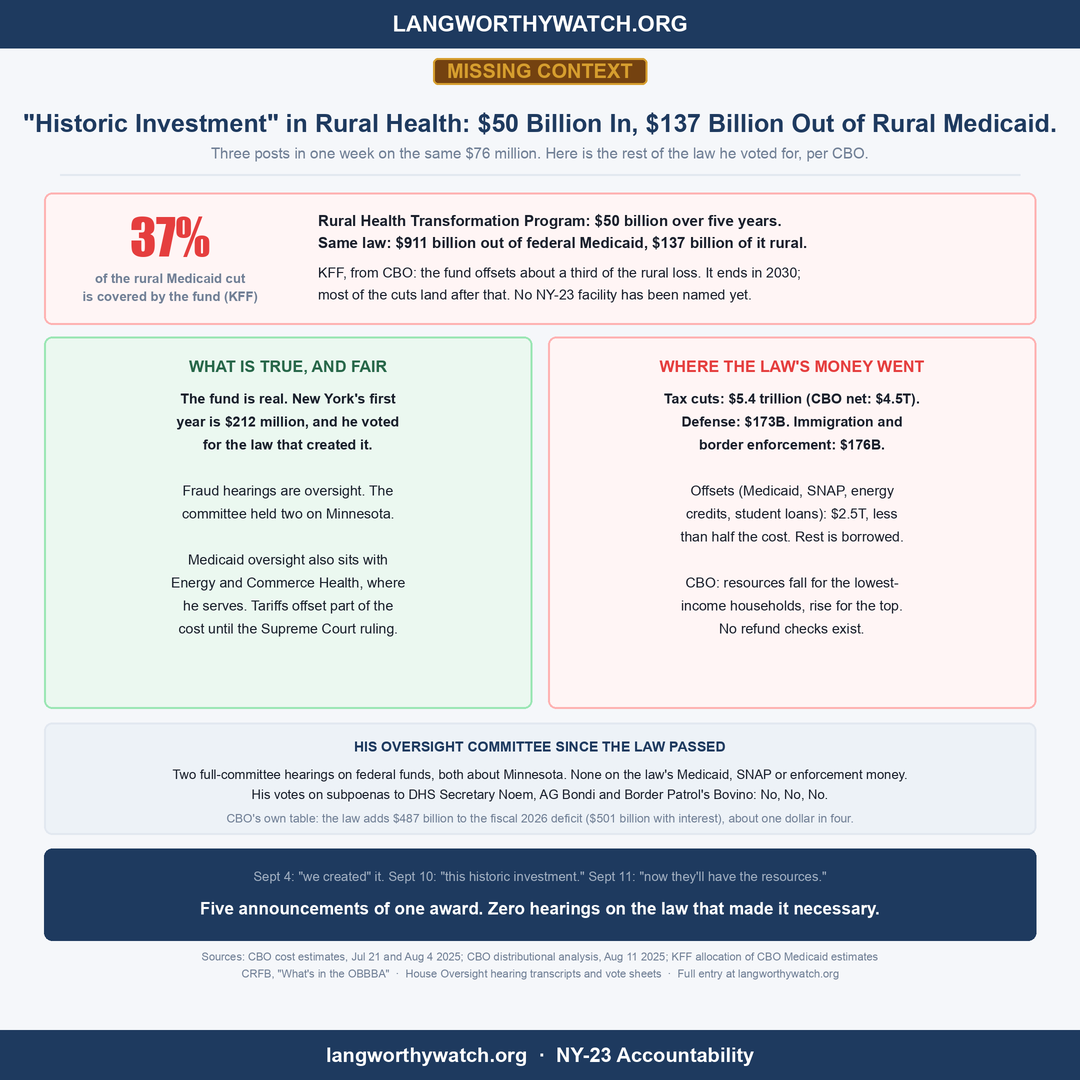
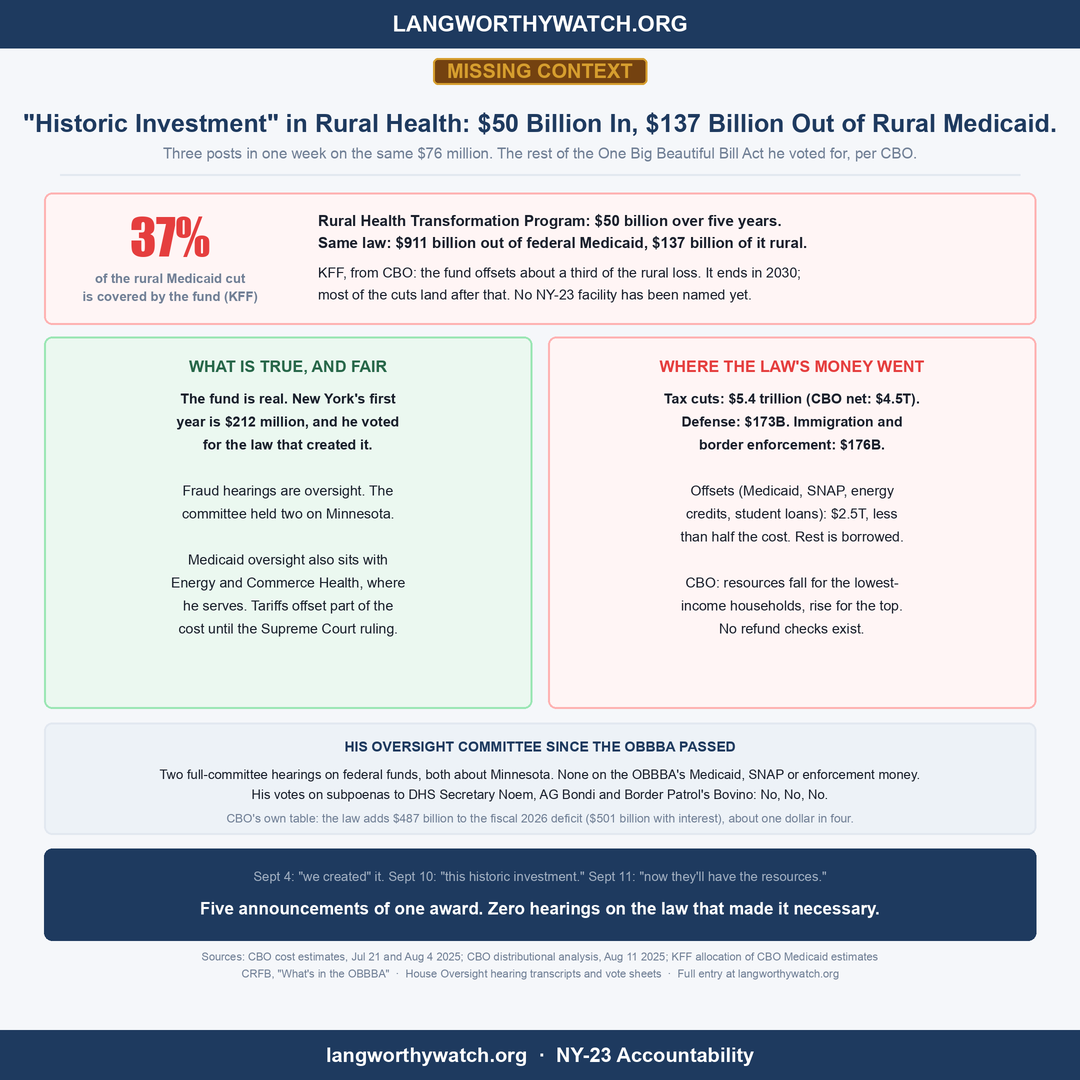
social: name the One Big Beautiful Bill Act on the rural-fund cards and caption

Changed region(s): [[0.1528, 0.6722, 0.8556, 0.7333], [0.1528, 0.1222, 0.8556, 0.1528]]

diff --git a/social-media/create_rural_fund_vs_cuts_card_v2.py b/social-media/create_rural_fund_vs_cuts_card_v2.py
@@ -17,7 +17,7 @@ c.brand_bar()
 
 y = c.badge(58, "MISSING CONTEXT")
 y = c.title(y, '"Historic Investment" in Rural Health: $50 Billion In, $137 Billion Out of Rural Medicaid.', size=25)
-y = c.subtitle(y + 6, 'Three posts in one week on the same $76 million. Here is the rest of the law he voted for, per CBO.', size=15)
+y = c.subtitle(y + 6, 'Three posts in one week on the same $76 million. The rest of the One Big Beautiful Bill Act he voted for, per CBO.', size=15)
 y = c.divider(y + 12)
 
 # ---- hero ---------------------------------------------------------------
@@ -74,8 +74,8 @@ y = top + col_h + 14
 # ---- strip --------------------------------------------------------------
 strip_h = 112
 c.panel(44, y, c.w - 44, y + strip_h, fill="#EDF2F7", outline=BORDER)
-c.text(c.w / 2, y + 24, "HIS OVERSIGHT COMMITTEE SINCE THE LAW PASSED", size=14, bold=True, fill=NAVY, anchor="mm")
-c.text(c.w / 2, y + 52, "Two full-committee hearings on federal funds, both about Minnesota. None on the law's Medicaid, SNAP or enforcement money.", size=13, fill=DARK, anchor="mm")
+c.text(c.w / 2, y + 24, "HIS OVERSIGHT COMMITTEE SINCE THE OBBBA PASSED", size=14, bold=True, fill=NAVY, anchor="mm")
+c.text(c.w / 2, y + 52, "Two full-committee hearings on federal funds, both about Minnesota. None on the OBBBA's Medicaid, SNAP or enforcement money.", size=13, fill=DARK, anchor="mm")
 c.text(c.w / 2, y + 72, "His votes on subpoenas to DHS Secretary Noem, AG Bondi and Border Patrol's Bovino: No, No, No.", size=13, fill=DARK, anchor="mm")
 c.text(c.w / 2, y + 96, "CBO's own table: the law adds $487 billion to the fiscal 2026 deficit ($501 billion with interest), about one dollar in four.", size=12, fill=MUTED, anchor="mm")
 y += strip_h + 14

diff --git a/social-media/create_rural_fund_vs_cuts_card.py b/social-media/create_rural_fund_vs_cuts_card.py
@@ -17,7 +17,7 @@ c.brand_bar()
 
 y = c.badge(58, "MISSING CONTEXT")
 y = c.title(y, '"Historic Investment" in Rural Health: $50 Billion In, $911 Billion Out.', size=27)
-y = c.subtitle(y + 6, 'Three posts in one week on the same $76 million. Here is the rest of the law he voted for, per CBO.', size=15)
+y = c.subtitle(y + 6, 'Three posts in one week on the same $76 million. The rest of the One Big Beautiful Bill Act he voted for, per CBO.', size=15)
 y = c.divider(y + 12)
 
 # ---- hero ---------------------------------------------------------------
@@ -74,8 +74,8 @@ y = top + col_h + 14
 # ---- strip --------------------------------------------------------------
 strip_h = 112
 c.panel(44, y, c.w - 44, y + strip_h, fill="#EDF2F7", outline=BORDER)
-c.text(c.w / 2, y + 24, "HIS OVERSIGHT COMMITTEE SINCE THE LAW PASSED", size=14, bold=True, fill=NAVY, anchor="mm")
-c.text(c.w / 2, y + 52, "Two full-committee hearings on federal funds, both about Minnesota. None on the law's Medicaid, SNAP or enforcement money.", size=13, fill=DARK, anchor="mm")
+c.text(c.w / 2, y + 24, "HIS OVERSIGHT COMMITTEE SINCE THE OBBBA PASSED", size=14, bold=True, fill=NAVY, anchor="mm")
+c.text(c.w / 2, y + 52, "Two full-committee hearings on federal funds, both about Minnesota. None on the OBBBA's Medicaid, SNAP or enforcement money.", size=13, fill=DARK, anchor="mm")
 c.text(c.w / 2, y + 72, "His votes on subpoenas to DHS Secretary Noem, AG Bondi and Border Patrol's Bovino: No, No, No.", size=13, fill=DARK, anchor="mm")
 c.text(c.w / 2, y + 96, "CBO's own table: the law adds $487 billion to the fiscal 2026 deficit ($501 billion with interest), about one dollar in four.", size=12, fill=MUTED, anchor="mm")
 y += strip_h + 14

diff --git a/social-media/rural_fund_vs_cuts_post.md b/social-media/rural_fund_vs_cuts_post.md
@@ -2,21 +2,21 @@
 # Entry: /fact-checks/2026-09-15-rural-health-fund-vs-cuts-and-oversight/  (MISSING CONTEXT)
 # Card: rural_fund_vs_cuts_card_v2.png (KFF 37% hero; v1 with the derived $2.70 ratio also on file)
 
-He posted three times in one week about a "historic investment" in rural health. The same law cut Medicaid by $911 billion, $137 billion of it rural. The fund covers 37% of that rural loss, per KFF.
+He posted three times in one week about a "historic investment" in rural health. The same law, the One Big Beautiful Bill Act, cut Medicaid by $911 billion, $137 billion of it rural. The fund covers 37% of that rural loss, per KFF.
 
 Sept 4: "we created" it. Sept 10: "this historic investment." Sept 11: "now they'll have the resources." All three are the same slice of one $212 million award to New York, announced five times since December.
 
 CLAIM: A "historic investment" that "delivers on that promise" for rural health care.
 VERDICT: MISSING CONTEXT
 
-→ The fund is $50 billion over five years, ending in 2030. The law that created it, which he voted for, cuts federal Medicaid by $911 billion over ten years (KFF, from CBO), $137 billion of it rural. The fund offsets 37% of the rural loss. Most of the cuts land after the fund ends.
+→ The fund is $50 billion over five years, ending in 2030. The OBBBA (H.R. 1), which he voted for, cuts federal Medicaid by $911 billion over ten years (KFF, from CBO), $137 billion of it rural. The fund offsets 37% of the rural loss. Most of the cuts land after the fund ends.
 → The cuts did not pay for the fund or for refund checks. CRFB's tally of CBO's numbers: $5.4 trillion in tax cuts, $173 billion for defense, $176 billion for immigration and border enforcement, against $2.5 trillion in offsets. The rest was borrowed.
 → CBO's distributional analysis: resources fall for the lowest-income households and rise for the top. Tariff refunds go to importers. The $5,000 "dividend" is a proposal, not a law.
 → CBO's year-by-year table: the law adds $487 billion to this year's deficit, $501 billion with interest, about one dollar in four of the $1.9 trillion projected.
-→ He sits on the House Oversight Committee. Since the law passed it has held two full-committee hearings on federal funds, both about Minnesota, and none on the law. His votes on subpoenas to DHS Secretary Noem, Attorney General Bondi and Border Patrol's Bovino: No, No, No.
+→ He sits on the House Oversight Committee. Since the OBBBA passed it has held two full-committee hearings on federal funds, both about Minnesota, and none on the OBBBA. His votes on subpoenas to DHS Secretary Noem, Attorney General Bondi and Border Patrol's Bovino: No, No, No.
 
 The fair reading: the fund is real and New York's first year is $212 million. Fraud hearings are oversight. Medicaid oversight also belongs to Energy and Commerce Health, where he serves. Tariffs offset part of the cost until the Supreme Court struck them down.
 
-Still unanswered: which NY-23 hospital or clinic gets any of the $212 million. Every figure is CBO's, KFF's or CRFB's, cited in the entry.
+Still unanswered: which NY-23 hospital or clinic gets any of the $212 million. Every figure is CBO's, KFF's or CRFB's.
 
 https://langworthywatch.org/fact-checks/2026-09-15-rural-health-fund-vs-cuts-and-oversight/
